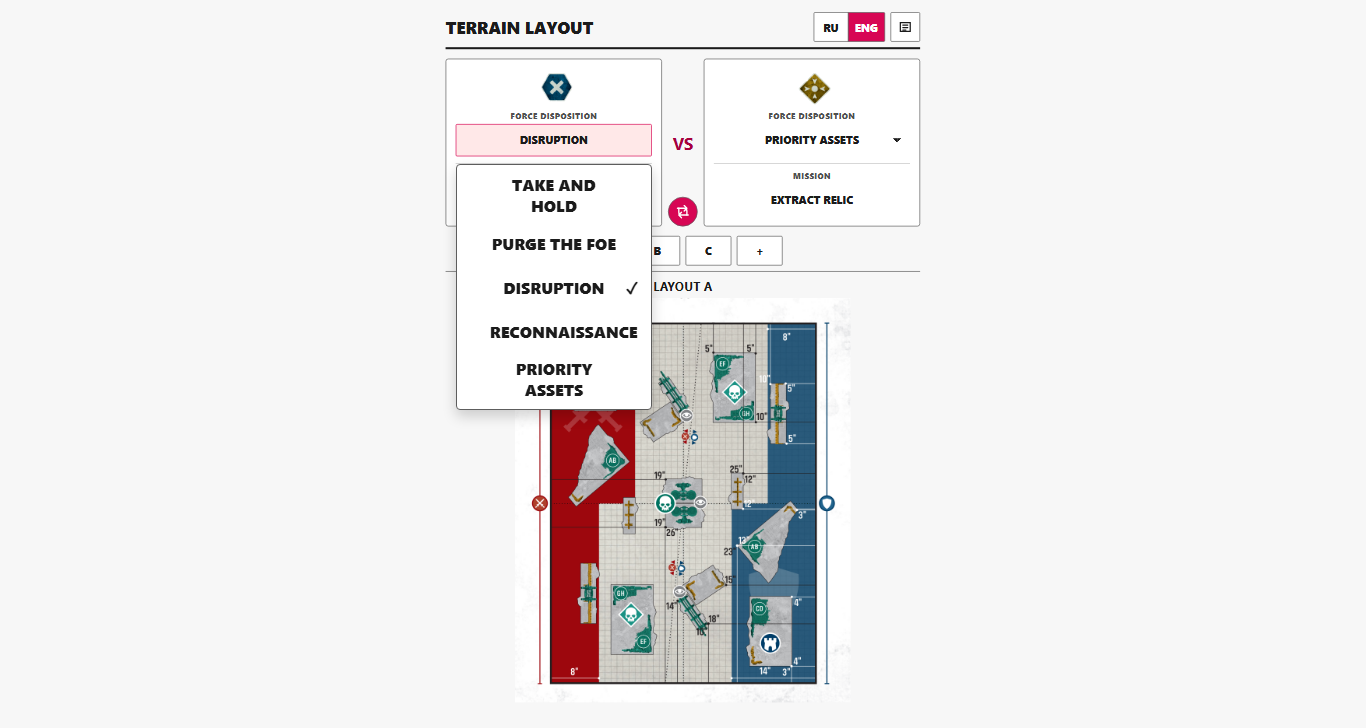
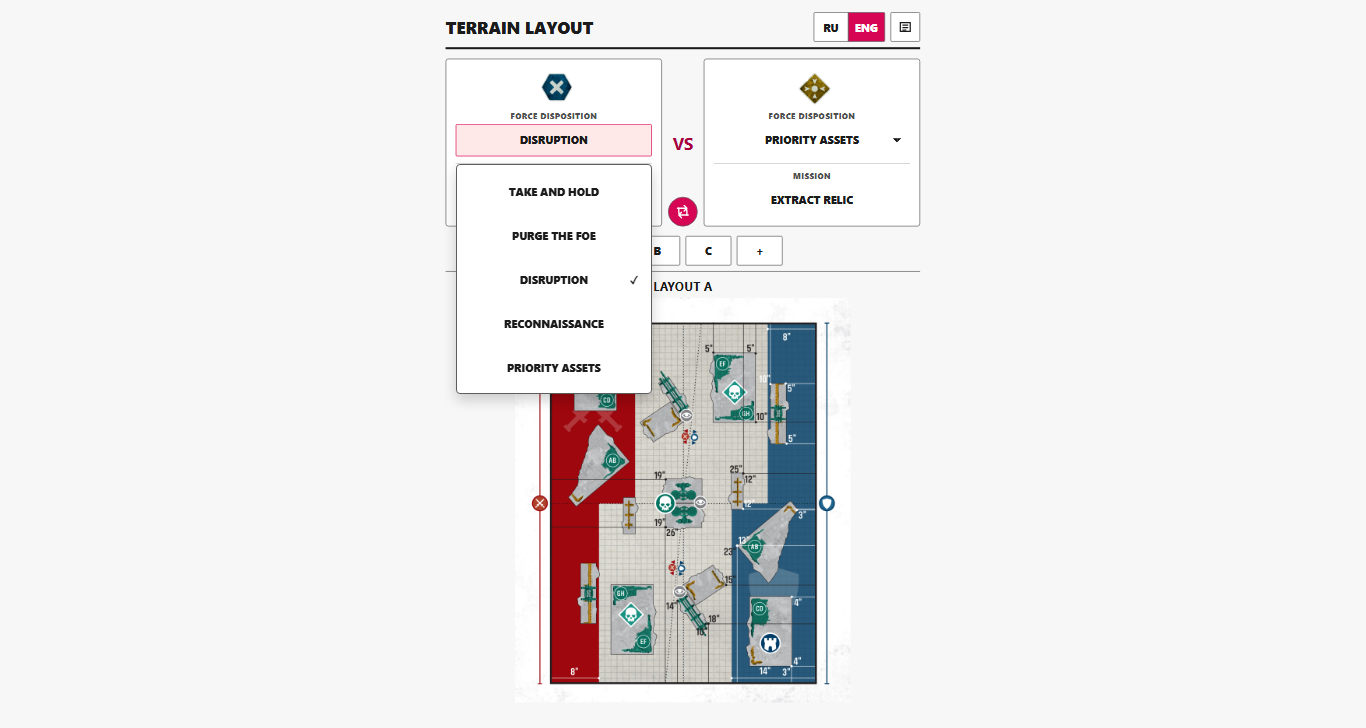
docs: publish v0.5.0 screenshots and artifacts refs #11 (#13)

Changed region(s): [[0.3382, 0.2418, 0.4919, 0.5742]]

diff --git a/test/ui.test.js b/test/ui.test.js
@@ -1047,12 +1047,22 @@ test('keeps the disposition menu usable without the Popover API', async () => {
   }
 });
 
-test('publishes four unambiguous verified v0.5 application screenshots in the README', () => {
+test('publishes the complete English v0.5 application screenshot gallery in the README', () => {
   const screenshots = [
+    'v05-desktop-main.png',
     'v05-desktop-disposition-menu.png',
+    'v05-desktop-mission-details.png',
+    'v05-desktop-twist-chooser.png',
+    'v05-desktop-twist-detail.png',
+    'v05-desktop-layouts-key.png',
+    'v05-desktop-terrain-rules.png',
+    'v05-desktop-gallery.png',
+    'v05-desktop-map-viewer.png',
+    'v05-mobile-main.png',
+    'v05-mobile-disposition-menu.png',
     'v05-mobile-mission-details.png',
     'v05-mobile-twist-chooser.png',
-    'v05-windows-packaged.png',
+    'v05-mobile-twist-detail.png',
   ];
   const readme = readFileSync('README.md', 'utf8');
 
@@ -1060,18 +1070,20 @@ test('publishes four unambiguous verified v0.5 application screenshots in the RE
     assert.ok(existsSync(`docs/screenshots/${screenshot}`), `Missing ${screenshot}`);
     assert.match(readme, new RegExp(`docs/screenshots/${screenshot.replaceAll('.', '\\.')}`));
   }
-  assert.doesNotMatch(readme, /v05-mobile-twist-detail\.png/);
+  assert.match(readme, /All screenshots below use the English interface/i);
 });
 
-test('records local v0.5 artifacts without claiming a published release', () => {
+test('records the published v0.5 release artifacts', () => {
   const readme = readFileSync('README.md', 'utf8');
-  assert.match(readme, /local v0\.5\.0 verification/i);
+  assert.match(readme, /## v0\.5\.0 verification/i);
   assert.match(readme, /WH40K Terrain Layout_0\.5\.0_x64-setup\.exe/);
   assert.match(readme, /WH40K-Terrain-Layout-v0\.5\.0-arm64-release\.apk/);
+  assert.match(readme, /23360C5F73DCD4B775FD67985A35DD5B5EA0F1760C13A4EB90032C3CFB046A89/);
+  assert.match(readme, /AA902340A9E3EBFA0436EDE7D6291C79639DBCC28C4B813F36F2A4CC3F28E2A6/);
   assert.match(readme, /66DCD9EB642077C8D64FE518E29AD1B2FF7A5020D2E41913866E270A12490BE8/);
-  assert.match(readme, /physical-device v0\.5\.0 verification is pending/i);
-  assert.match(readme, /Latest published release:\*\* \[v0\.4\.0\]/);
-  assert.doesNotMatch(readme, /Latest published release:\*\* \[v0\.5\.0\]/);
+  assert.match(readme, /Latest published release:\*\* \[v0\.5\.0\]/);
+  assert.doesNotMatch(readme, /physical-device v0\.5\.0 verification is pending/i);
+  assert.doesNotMatch(readme, /have \*\*not\*\* been published/i);
 });
 
 test('attributes the Twist order to the current official app', () => {

diff --git a/README.md b/README.md
@@ -2,9 +2,9 @@
 
 Offline Windows and Android companion for finding the official Warhammer 40,000 terrain map for a match. Choose both players' Force Dispositions and layout A, B, or C; the app shows the corresponding terrain placement diagram, assigned missions, and detailed scoring references.
 
-**Current source version:** v0.5.0 (local artifacts built and automated verification complete; physical-device verification pending)
+**Current source version:** v0.5.0
 
-**Latest published release:** [v0.4.0](https://github.com/okami69/WH40K-Terrain-Layout/releases/tag/v0.4.0)
+**Latest published release:** [v0.5.0](https://github.com/okami69/WH40K-Terrain-Layout/releases/tag/v0.5.0)
 
 Everything needed at the table is bundled with the application, so it works without an internet connection after installation. The interface supports Russian and English, includes the official Layouts Key and Terrain Layouts rules, and can enlarge any map for closer inspection.
 
@@ -29,30 +29,48 @@ Everything needed at the table is bundled with the application, so it works with
 
 ## Screenshots
 
-These screenshots were captured from the verified v0.5.0 source and locally built Windows package.
+All screenshots below use the English interface and were captured from the verified v0.5.0 source.
 
-| Centered desktop disposition menu | Mobile mission details |
+### Desktop
+
+| Main screen | Force Disposition menu |
 | --- | --- |
-| ![English desktop disposition menu with all five centered choices](docs/screenshots/v05-desktop-disposition-menu.png) | ![Mobile Locate and Deny detailed mission reference](docs/screenshots/v05-mobile-mission-details.png) |
-| Mobile Twist chooser | Packaged Windows application |
-| ![Mobile chooser showing all six optional Twists](docs/screenshots/v05-mobile-twist-chooser.png) | ![Locally built v0.5.0 Windows application](docs/screenshots/v05-windows-packaged.png) |
+| ![English desktop main screen](docs/screenshots/v05-desktop-main.png) | ![English desktop Force Disposition menu with all five centered choices](docs/screenshots/v05-desktop-disposition-menu.png) |
+| Mission details | Twist chooser |
+| ![English desktop Locate and Deny mission details](docs/screenshots/v05-desktop-mission-details.png) | ![English desktop chooser with all six optional Twists](docs/screenshots/v05-desktop-twist-chooser.png) |
+| Selected Twist | Layouts Key |
+| ![English desktop Martial Pride Twist details](docs/screenshots/v05-desktop-twist-detail.png) | ![English desktop official Layouts Key](docs/screenshots/v05-desktop-layouts-key.png) |
+| Terrain Layout rules | All-layout gallery |
+| ![English desktop official Terrain Layout rules](docs/screenshots/v05-desktop-terrain-rules.png) | ![English desktop all-layout gallery](docs/screenshots/v05-desktop-gallery.png) |
+| Enlarged map | |
+| ![English desktop enlarged terrain map](docs/screenshots/v05-desktop-map-viewer.png) | |
+
+### Mobile
+
+| Main screen | Force Disposition menu |
+| --- | --- |
+| ![English mobile main screen](docs/screenshots/v05-mobile-main.png) | ![English mobile Force Disposition menu with all five centered choices](docs/screenshots/v05-mobile-disposition-menu.png) |
+| Mission details | Twist chooser |
+| ![English mobile Locate and Deny mission details](docs/screenshots/v05-mobile-mission-details.png) | ![English mobile chooser with all six optional Twists](docs/screenshots/v05-mobile-twist-chooser.png) |
+| Selected Twist | |
+| ![English mobile Martial Pride Twist details](docs/screenshots/v05-mobile-twist-detail.png) | |
 
 ## Download
 
-Download the signed **Android ARM64** APK from the [v0.4.0 release](https://github.com/okami69/WH40K-Terrain-Layout/releases/tag/v0.4.0). It is intended for direct installation on modern ARM64 phones without Google Play: download the APK, allow installation from the browser or file manager when Android asks, then open it normally. The Android build is portrait-only, works offline, and packages the original lossless WebP map assets without further resizing. It was physically verified on a OnePlus 15R and checked at 320 x 568, 360 x 800, 412 x 915, and 480 x 1040 portrait viewports.
+Download the signed **Android ARM64** APK from the [v0.5.0 release](https://github.com/okami69/WH40K-Terrain-Layout/releases/tag/v0.5.0). It is intended for direct installation on modern ARM64 phones without Google Play: download the APK, allow installation from the browser or file manager when Android asks, then open it normally. The Android build is portrait-only, works offline, and packages the original lossless WebP map assets without further resizing. It was physically verified on a OnePlus 15R by the project owner and checked at 320 x 568, 360 x 800, 412 x 915, 480 x 1040, 560 x 1280, and 768 x 1080 portrait viewports.
 
-The Windows x64 NSIS installer is available from the [v0.4.0 release](https://github.com/okami69/WH40K-Terrain-Layout/releases/tag/v0.4.0). It uses the Windows WebView2 Runtime and downloads it only if it is not already present.
+The Windows x64 NSIS installer is available from the [v0.5.0 release](https://github.com/okami69/WH40K-Terrain-Layout/releases/tag/v0.5.0). It uses the Windows WebView2 Runtime and downloads it only if it is not already present.
 
-## Local v0.5.0 verification
+## v0.5.0 verification
 
-The following v0.5.0 artifacts were built and checked locally. They have **not** been published as a GitHub release.
+The following v0.5.0 release artifacts were built and checked locally before publication.
 
[6 lines of base64/hex data omitted]
 
-Automated acceptance passed 60 Node tests and Chromium checks at 320×568, 360×800, 412×915, 480×1040, 560×1280, 768×1080, and 1366×728. The packaged Windows executable also launched successfully. Physical-device v0.5.0 verification is pending; no v0.5.0 release is published yet.
+Automated acceptance passed 60 Node tests and Chromium checks at 320×568, 360×800, 412×915, 480×1040, 560×1280, 768×1080, and 1366×728. The packaged Windows executable launched successfully, and the final Android build passed physical-device verification.
 
 ## Use
 
@@ -95,7 +113,7 @@ The Tauri NSIS installer is written under:
 
 The signed Android APK is written under `src-tauri/gen/android/app/build/outputs/apk/arm64/release/`. Release signing requires the ignored `src-tauri/gen/android/keystore.properties` file and the external private keystore it references. Never commit either file. Keep a secure backup of the same keystore and password: both are required to publish installable upgrades. On Windows, Android builds also require Developer Mode or an elevated shell because Tauri creates JNI symbolic links.
 
-Current published v0.4.0 verification covers the Node test suite, signed APK verification, ARM64-only native contents, packaged offline assets, representative portrait Playwright checks, and a physical OnePlus 15R smoke test. The v0.5.0 evidence above is local automated verification only; physical-device verification and publication remain pending.
+Published v0.5.0 verification covers the Node test suite, signed APK verification, ARM64-only native contents, packaged offline assets, responsive Playwright checks, the packaged Windows launch, and a physical Android smoke test.
 
 ## Re-extract assets
 
